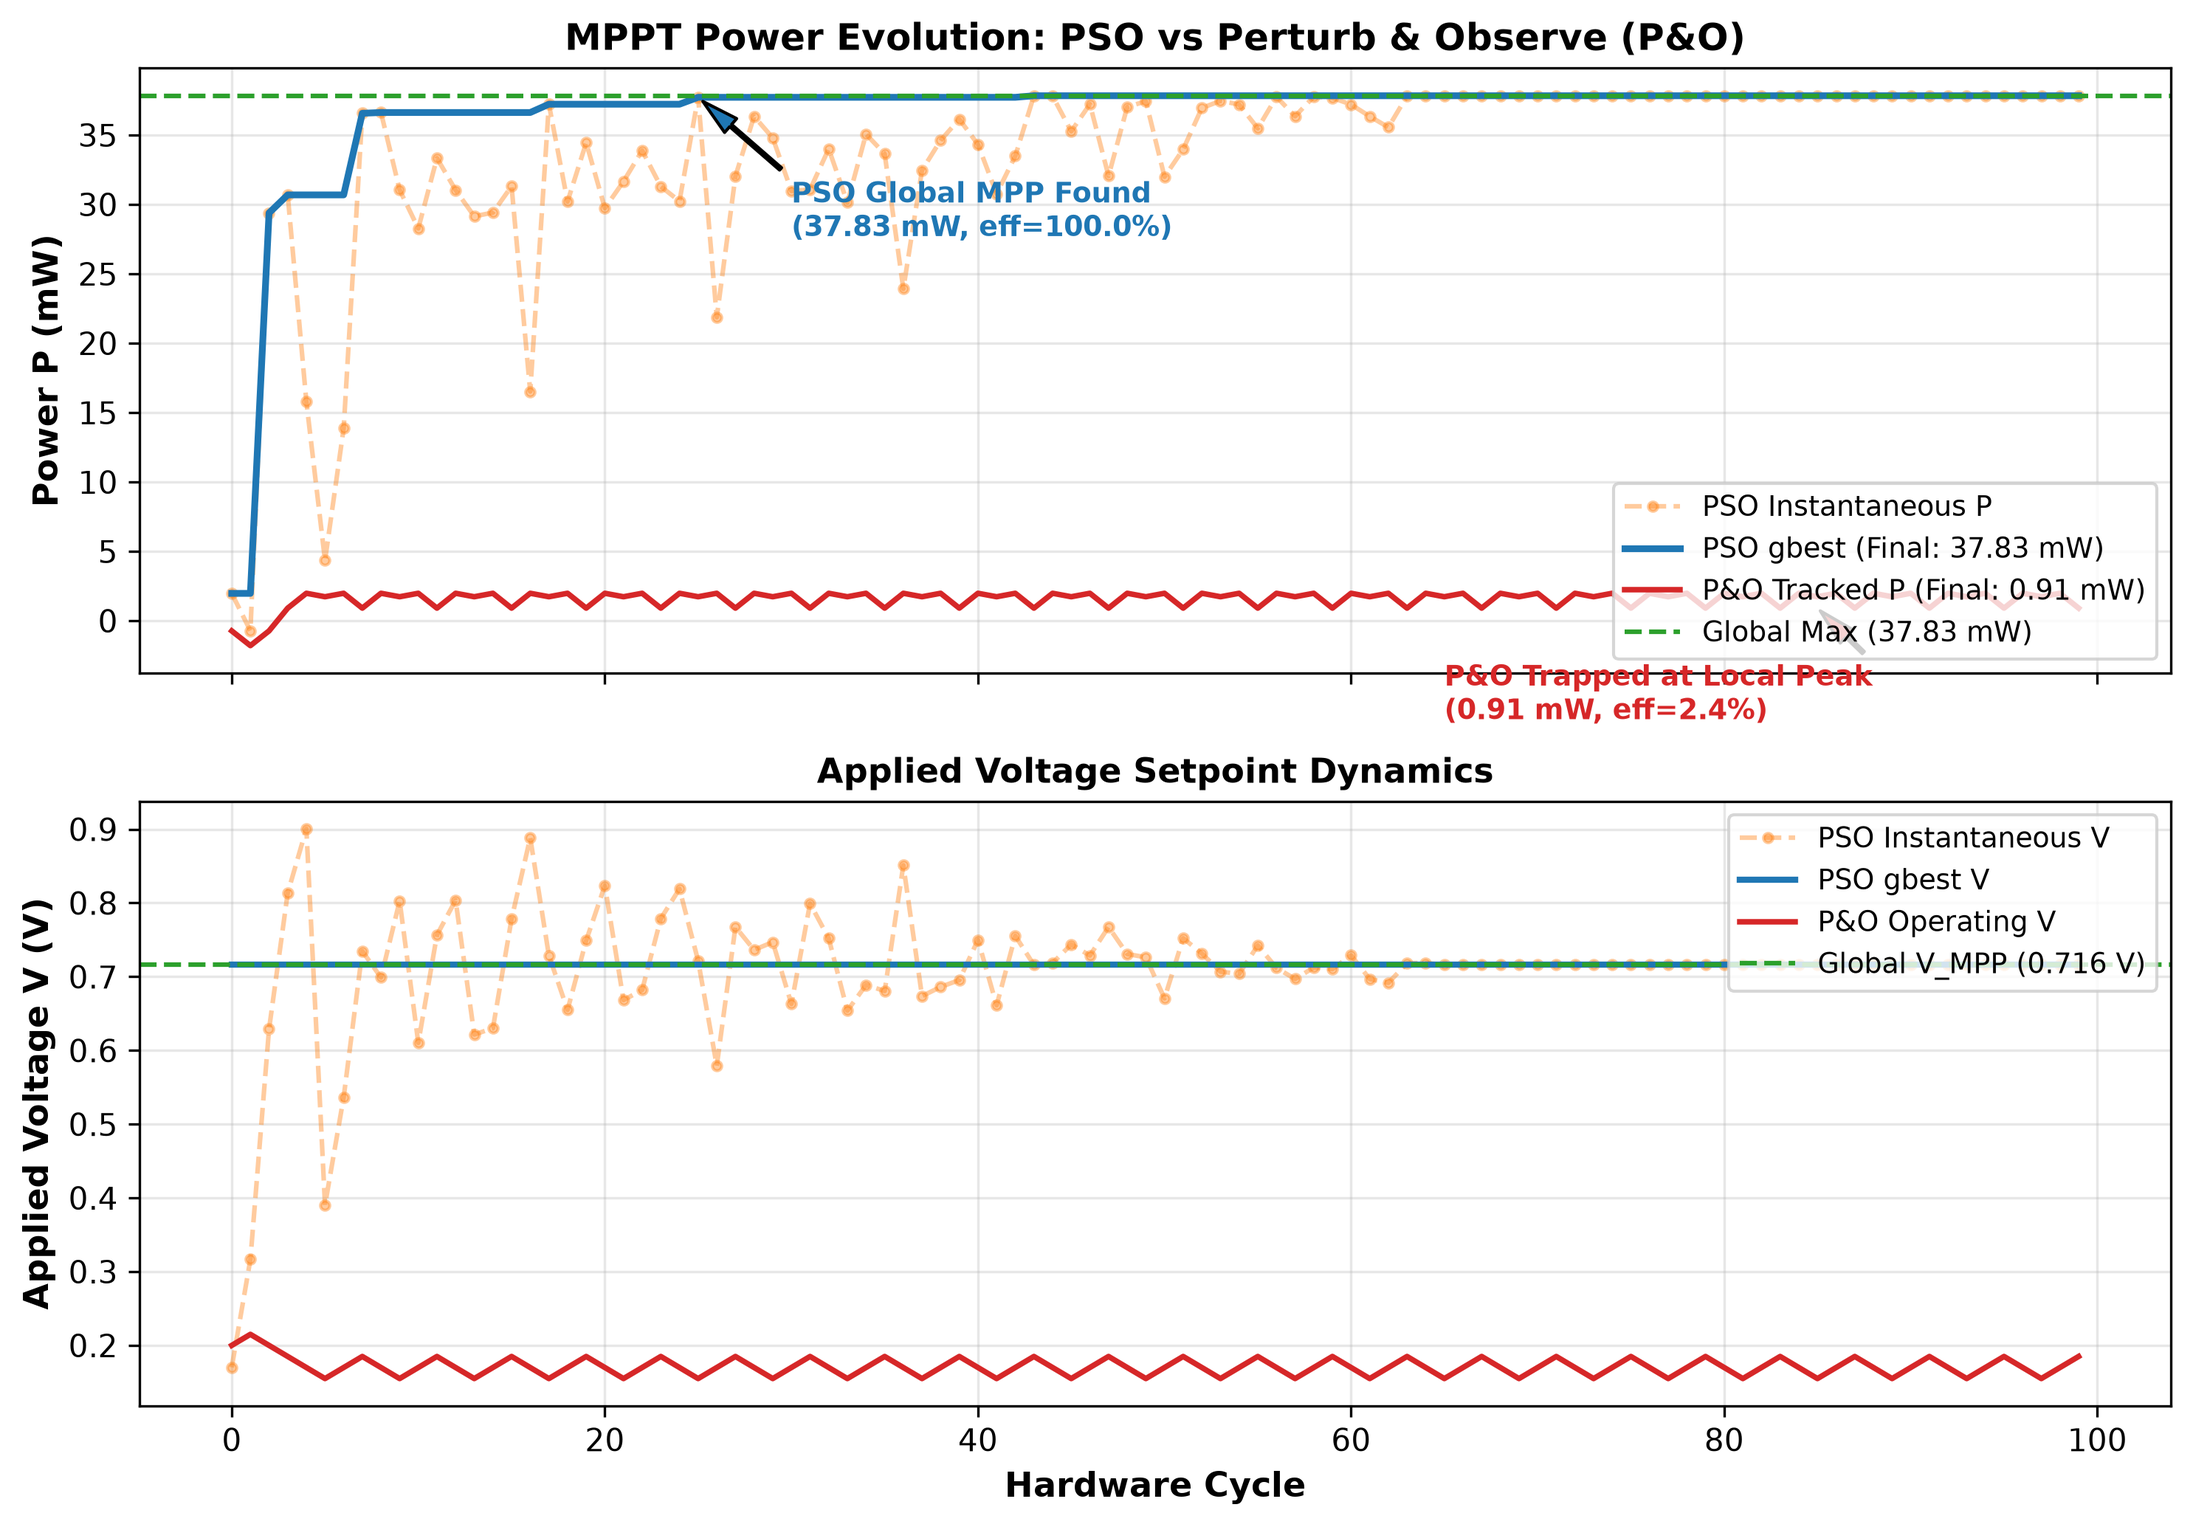
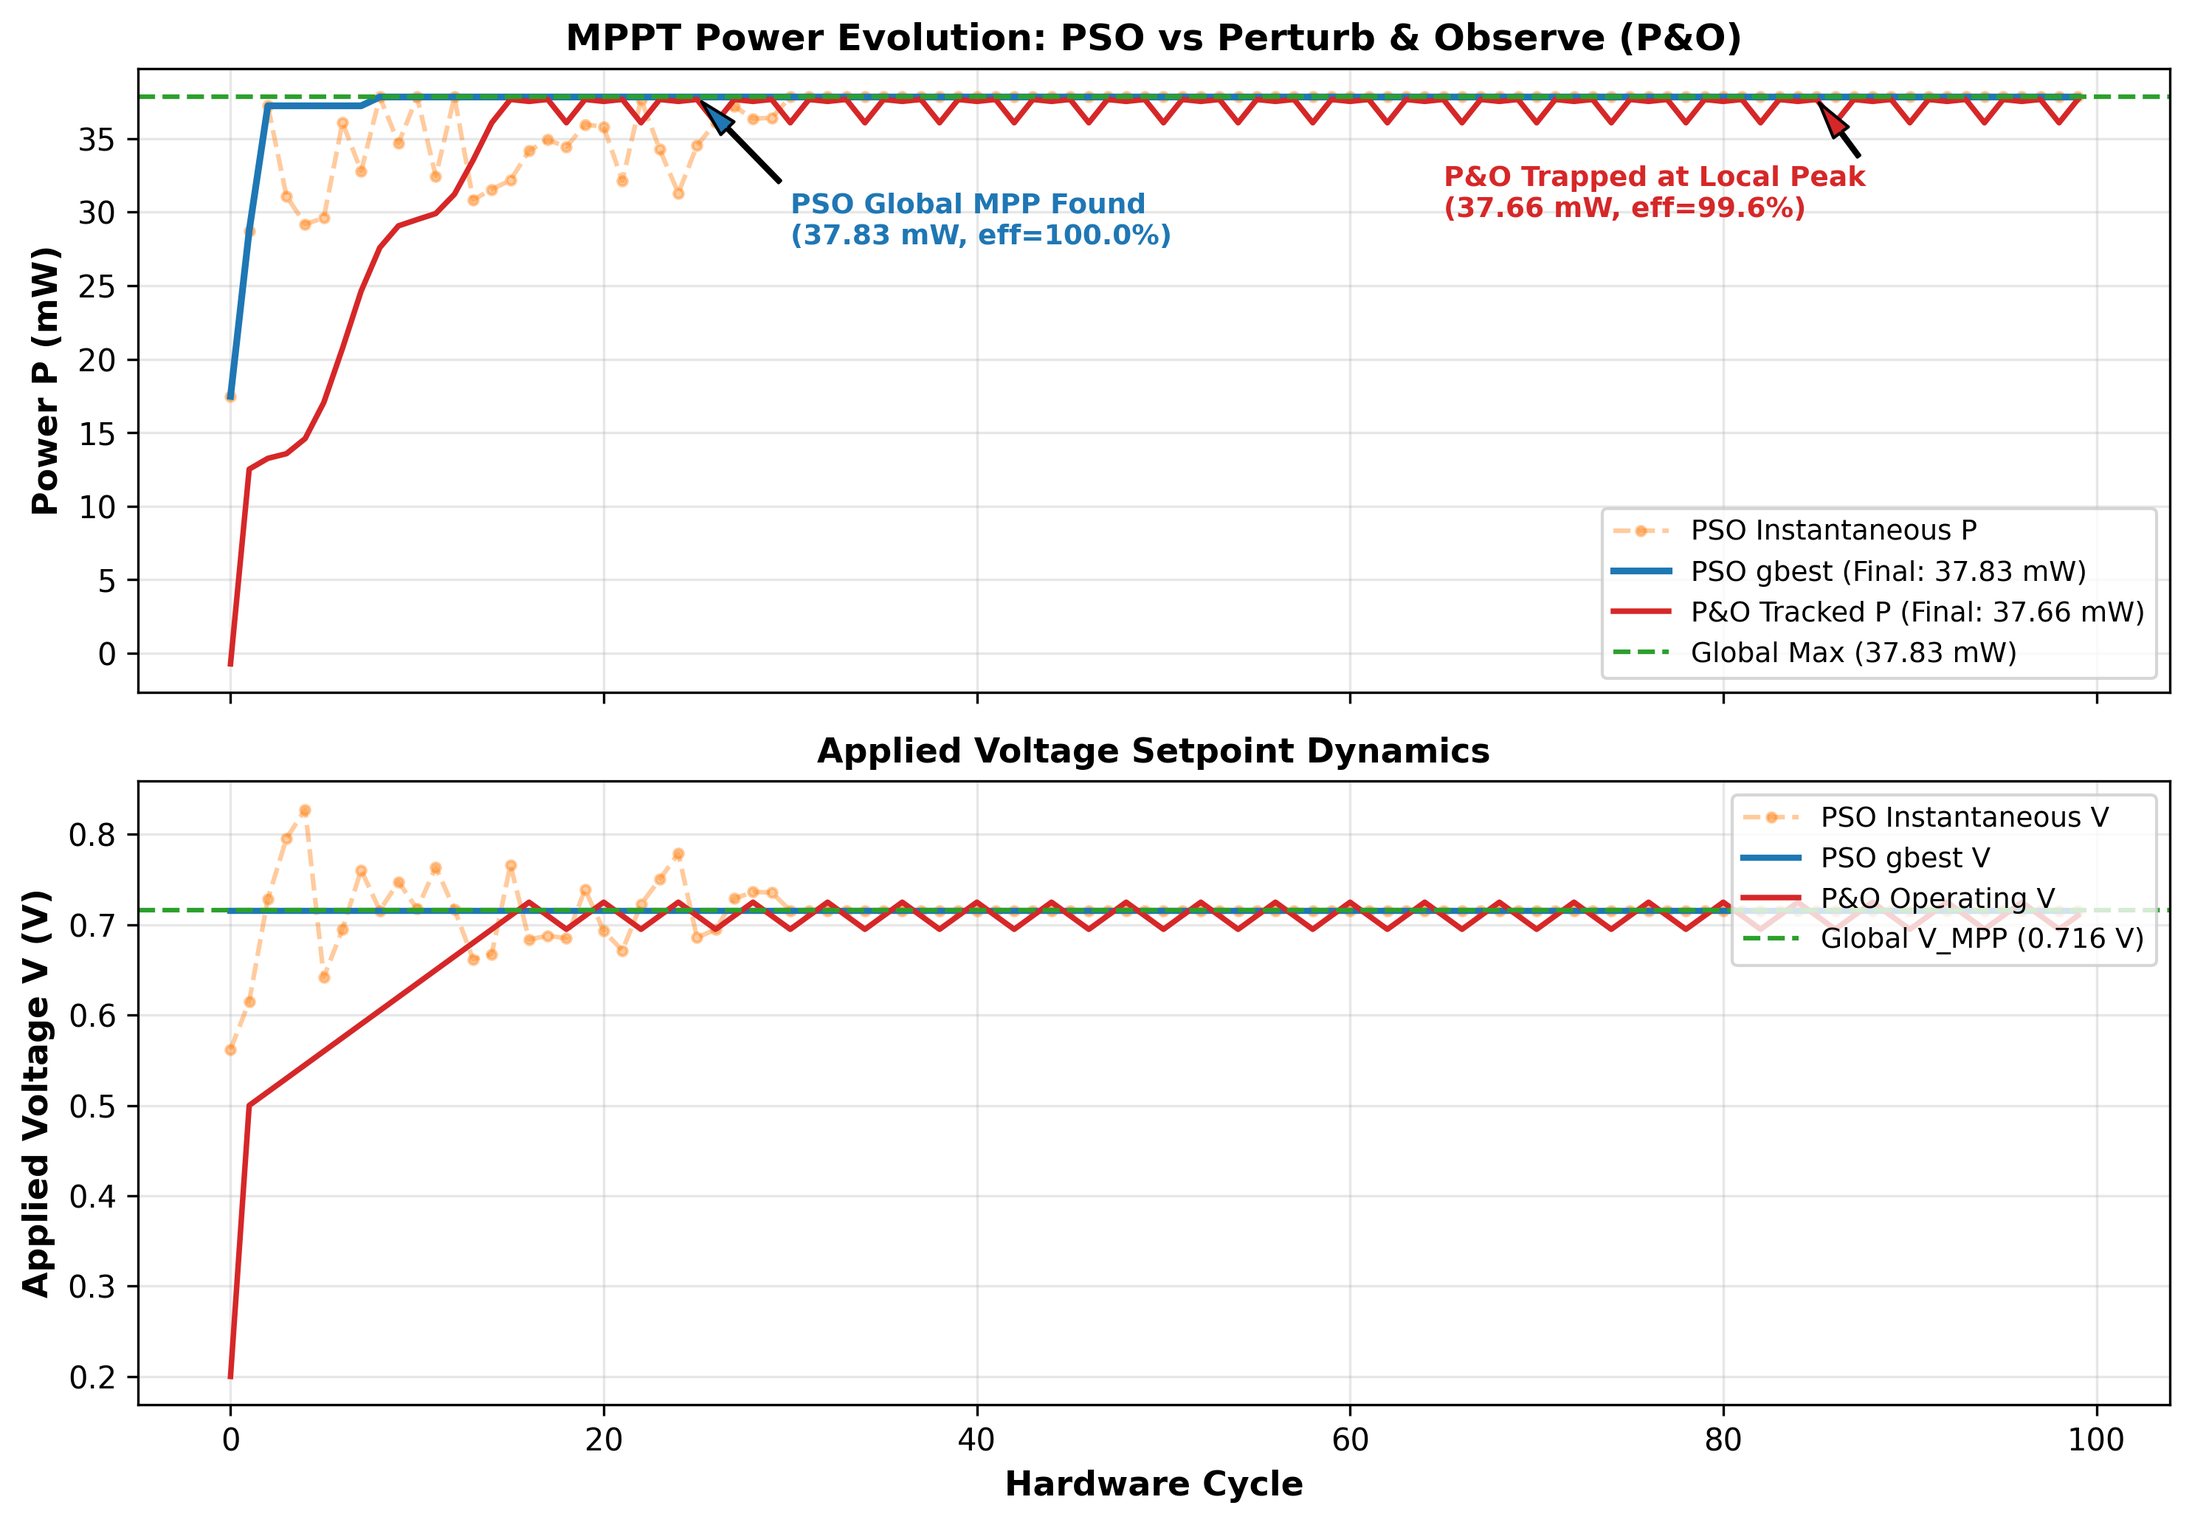
INC sim

diff --git a/pso_sim.py b/pso_sim.py
@@ -168,44 +168,128 @@ class MPPT_PSO:
 
 
 class MPPT_PO:
-    """ Standard Perturb and Observe (P&O) MPPT algorithm. """
-    def __init__(self, v_start: float = 0.20, v_step: float = 0.015, v_min: float = 0.0, v_max: float = 1.1):
+    """ Modified Perturb and Observe (P&O) MPPT algorithm. """
+    def __init__(self, v_start: float = 0.20, v_step: float = 0.01, v_min: float = 0.0, v_max: float = 1.1):
         self.v_now = v_start
-        self.v_step = v_step
+        self.v_large_step = v_step
+        self.v_minor_step = v_step / 2
         self.v_min = v_min
         self.v_max = v_max
         self.direction = 1
         self.p_prev = 0.0
         self.initialized = False
+        self.is_exploring = True
+        self.v_step = self.v_large_step
 
     def step(self, avg_p: float) -> float:
         if not self.initialized:
             self.p_prev = avg_p
+            self.v_step = self.v_large_step
             self.initialized = True
         else:
             dP = avg_p - self.p_prev
             if dP < 0:
                 self.direction *= -1
+                self.is_exploring = True
+                self.v_step = self.v_large_step
             self.p_prev = avg_p
 
         self.v_now = np.clip(self.v_now + self.v_step * self.direction, self.v_min, self.v_max)
         return float(self.v_now)
 
 
-def pv_sim_curve(v):
-    """ Multi-modal PV curve -- partial shading with several local maxima.
-
-    Uses a Rastrigin-like landscape scaled to the [0, 1.1] V domain so
-    there are shallow local wells and a broad global peak.
+class MPPT_INC:
+    """ Incremental Conductance (INC) MPPT algorithm.
+    Converts power from mW to W so current I is in Amperes and inc_cond (dI/dV + I/V)
+    is in Siemens. Locks voltage setpoint (direction=0) once |inc_cond| < epsilon, 
+    eliminating steady-state oscillation around MPP.
     """
-    A = 2.0
-    p_osc = A * (v / 1.1) ** 2 - A * np.cos(2.0 * np.pi * 10.0 * v / 1.1)
-    p_peak = 35.0 * np.exp(-0.5 * ((v - 0.72) / 0.14) ** 2)
-    return p_osc + p_peak
+    def __init__(
+        self,
+        v_start: float = 0.52,
+        v_step: float = 0.008,
+        v_min: float = 0.5,
+        v_max: float = 0.9,
+        It: float = 1e-4,
+        epsilon: float = 0.015
+    ):
+        self.v_now = float(v_start)
+        self.v_prev = float(v_start)
+        self.i_now = 0.0
+        self.i_prev = 0.0
+        self.v_step = v_step
+        self.v_min = v_min
+        self.v_max = v_max
+        self.It = It
+        self.epsilon = epsilon
+        self.direction = 1
+        self.initialized = False
+        self.locked = False
+
+    def step(self, avg_p: float) -> float:
+        # Convert avg_p (mW) to Watts: P_W = avg_p * 1e-3
+        p_w = float(avg_p) * 1e-3
+        self.i_now = p_w / max(self.v_now, 1e-4)
+
+        if not self.initialized:
+            self.i_prev = self.i_now
+            self.v_prev = self.v_now
+            self.initialized = True
+            self.v_now = np.clip(self.v_now + self.direction * self.v_step, self.v_min, self.v_max)
+            return float(self.v_now)
+
+        dV = self.v_now - self.v_prev
+        dI = self.i_now - self.i_prev
+
+        if self.locked:
+            # If environmental change occurs (delta I > It)
+            if abs(dI) > self.It:
+                self.locked = False
+            else:
+                self.v_prev = self.v_now
+                self.i_prev = self.i_now
+                return float(self.v_now)
+
+        if abs(dV) < 1e-6:
+            if abs(dI) > self.It:
+                self.direction = 1 if dI > 0 else -1
+            else:
+                self.direction = 0
+                self.locked = True
+        else:
+            inc_cond = (dI / dV) + (self.i_now / self.v_now)
+            if abs(inc_cond) < self.epsilon:
+                self.direction = 0
+                self.locked = True
+            elif inc_cond > 0:
+                self.direction = 1
+            else:
+                self.direction = -1
+
+        self.v_prev = self.v_now
+        self.i_prev = self.i_now
+
+        self.v_now = np.clip(self.v_now + self.direction * self.v_step, self.v_min, self.v_max)
+        return float(self.v_now)
+
+
+def pv_sim_curve(v):
+    """ Multi-modal PV curve with local maxima and minima within [0.5, 0.9] V range.
+    Simulates partial shading with multiple local MPP peaks and one global peak.
+    """
+    # Global peak centered at V = 0.74 V
+    p_global = 35.0 * np.exp(-0.5 * ((v - 0.74) / 0.08) ** 2)
+    # Local shading peak 1 near 0.57 V
+    p_local1 = 18.5 * np.exp(-0.5 * ((v - 0.57) / 0.035) ** 2)
+    # Local shading peak 2 near 0.86 V
+    p_local2 = 14.0 * np.exp(-0.5 * ((v - 0.86) / 0.03) ** 2)
+
+    p = p_global + p_local1 + p_local2
+    return np.maximum(p, 0.0)
 
 
 def main():
-    v_min, v_max = 0.0, 1.1
+    v_min, v_max = 0.5, 0.9
     v = np.linspace(v_min, v_max, 3000)
     p = pv_sim_curve(v)
 
@@ -261,7 +345,7 @@ def main():
     # -------------------------------------------------------------------------
     # 2) SIMULATE PERTURB & OBSERVE (P&O) MPPT
     # -------------------------------------------------------------------------
-    po = MPPT_PO(v_start=0.20, v_step=0.015, v_min=v_min, v_max=v_max)
+    po = MPPT_PO(v_start=0.52, v_step=0.008, v_min=v_min, v_max=v_max)
     po_v_inst = []
     po_p_inst = []
     v_setpoint_po = po.v_now
@@ -272,28 +356,44 @@ def main():
         po_p_inst.append(p_meas)
         v_setpoint_po = po.step(p_meas)
 
+    # -------------------------------------------------------------------------
+    # 3) SIMULATE INCREMENTAL CONDUCTANCE (INC) MPPT
+    # -------------------------------------------------------------------------
+    inc = MPPT_INC(v_start=0.52, v_step=0.008, v_min=v_min, v_max=v_max, epsilon=0.15)
+    inc_v_inst = []
+    inc_p_inst = []
+    v_setpoint_inc = inc.v_now
+
+    for cycle in range(total_hardware_cycles):
+        p_meas = float(pv_sim_curve(v_setpoint_inc))
+        inc_v_inst.append(v_setpoint_inc)
+        inc_p_inst.append(p_meas)
+        v_setpoint_inc = inc.step(p_meas)
+
     # Calculate efficiencies
     eff_pso = (pso_p_gbest[-1] / p_global) * 100.0
     eff_po = (po_p_inst[-1] / p_global) * 100.0
+    eff_inc = (inc_p_inst[-1] / p_global) * 100.0
 
-    print("==========================================================")
-    print("               MPPT SIMULATION COMPARISON")
-    print("==========================================================")
+    print("==========================================================================")
+    print("                 MPPT SIMULATION COMPARISON (0.5V - 0.9V)")
+    print("==========================================================================")
     print(f"Global Maximum (Theoretical) : V = {v_global:.4f} V | P = {p_global:.3f} mW")
     print(f"PSO Found                    : V = {pso.gbest_pos:.4f} V | P = {pso_p_gbest[-1]:.3f} mW (Efficiency: {eff_pso:.2f}%)")
     print(f"P&O Found                    : V = {po_v_inst[-1]:.4f} V | P = {po_p_inst[-1]:.3f} mW (Efficiency: {eff_po:.2f}%)")
-    print("==========================================================")
+    print(f"INC Found                    : V = {inc_v_inst[-1]:.4f} V | P = {inc_p_inst[-1]:.3f} mW (Efficiency: {eff_inc:.2f}%)")
+    print("==========================================================================")
 
     # -------------------------------------------------------------------------
-    # 3) ANIMATION -- Particle Evolution over the PV Curve
+    # 4) ANIMATION -- Particle Evolution over the PV Curve
     # -------------------------------------------------------------------------
     n_frames = len(gen_snapshots)
     fig_anim, ax_anim = plt.subplots(figsize=(9, 5))
     param_text = f"$N={n_particles}$, $c_1={c1}$, $c_2={c2}$, $w=[{w_min}, {w_max}]$, $v_{{step,max}}={v_step_max_frac}\\times\\Delta V$"
 
     ax_anim.plot(v, p, lw=1.5, color="#3a86ff", zorder=1, label="Fitness curve P(V)")
-    ax_anim.axvline(v_global, color="gray", ls="--", lw=0.8, alpha=0.6, label="Global optimum V_MPP")
-    ax_anim.axhline(p_global, color="green", ls=":", lw=0.8, alpha=0.5, label=f"Global max = {p_global:.3f} mW")
+    ax_anim.axvline(v_global, color="gray", ls="--", lw=0.8, alpha=0.6, label=f"Global V_MPP ({v_global:.3f} V)")
+    ax_anim.axhline(p_global, color="green", ls=":", lw=0.8, alpha=0.5, label=f"Global Max ({p_global:.3f} mW)")
     ax_anim.set_xlabel(f"Applied Voltage V (V)\n{param_text}")
     ax_anim.set_ylabel("Power P (mW)")
     ax_anim.grid(True, alpha=0.3)
@@ -334,56 +434,64 @@ def main():
         ax_anim.set_title(f"PSO Particle Evolution -- Generation {frame}/{n_frames - 1}", fontsize=10, fontweight="bold")
         return [particles_scatter, gbest_marker] + trail_artists
 
-    anim = FuncAnimation(fig_anim, update, frames=n_frames, init_func=init, interval=1200, blit=False, repeat=True)
+    anim = FuncAnimation(fig_anim, update, frames=n_frames, init_func=init, interval=500, blit=False, repeat=False)
     plt.tight_layout()
 
     # -------------------------------------------------------------------------
-    # 4) STATIC PLOT -- Power & Voltage Evolution Comparison (PSO vs P&O)
+    # 5) STATIC PLOT -- Power & Voltage Evolution Comparison (PSO vs P&O vs INC)
     # -------------------------------------------------------------------------
-    fig_conv, (ax_p, ax_v_plot) = plt.subplots(2, 1, figsize=(10, 7), sharex=True)
+    fig_conv, (ax_p, ax_v_plot) = plt.subplots(2, 1, figsize=(10, 7.5), sharex=True)
     cycles = np.arange(total_hardware_cycles)
 
     # --- Top Panel: Power Evolution ---
-    ax_p.plot(cycles, pso_p_inst, "o--", color="#ff7f0e", markersize=3, alpha=0.4, label="PSO Instantaneous P")
-    ax_p.plot(cycles, pso_p_gbest, "-", color="#1f77b4", lw=2.2, label=f"PSO gbest (Final: {pso_p_gbest[-1]:.2f} mW)")
-    ax_p.plot(cycles, po_p_inst, "-", color="#d62728", lw=1.8, label=f"P&O Tracked P (Final: {po_p_inst[-1]:.2f} mW)")
+    ax_p.plot(cycles, pso_p_inst, "o--", color="#ff7f0e", markersize=3, alpha=0.3, label="PSO Instantaneous P")
+    ax_p.plot(cycles, pso_p_gbest, "-", color="#1f77b4", lw=2.2, zorder=4, label=f"PSO gbest (Final: {pso_p_gbest[-1]:.2f} mW)")
+    ax_p.plot(cycles, po_p_inst, "s--", color="#d62728", lw=1.5, markersize=3, zorder=2, label=f"P&O (Oscillates around peak: {po_p_inst[-1]:.2f} mW)")
+    ax_p.plot(cycles, inc_p_inst, "-", color="#8e44ad", lw=2.5, zorder=3, label=f"INC (Locks at peak - Zero Oscillation: {inc_p_inst[-1]:.2f} mW)")
     ax_p.axhline(p_global, color="#2ca02c", ls="--", lw=1.5, label=f"Global Max ({p_global:.2f} mW)")
 
     ax_p.set_ylabel("Power P (mW)", fontsize=11, fontweight="bold")
-    ax_p.set_title("MPPT Power Evolution: PSO vs Perturb & Observe (P&O)", fontsize=12, fontweight="bold")
+    ax_p.set_title("MPPT Power Evolution: PSO vs P&O vs Incremental Conductance (INC)", fontsize=12, fontweight="bold")
     ax_p.grid(True, alpha=0.3)
-    ax_p.legend(loc="lower right", fontsize=9, frameon=True, facecolor="white")
+    ax_p.legend(loc="lower right", fontsize=8.5, frameon=True, facecolor="white")
 
     # Annotations
-    ax_p.annotate(f"P&O Trapped at Local Peak\n({po_p_inst[-1]:.2f} mW, eff={eff_po:.1f}%)",
+    ax_p.annotate(f"P&O Oscillates around Peak\n({po_p_inst[-1]:.2f} mW, eff={eff_po:.1f}%)",
                   xy=(total_hardware_cycles - 15, po_p_inst[-1]),
-                  xytext=(total_hardware_cycles - 35, po_p_inst[-1] - 8),
+                  xytext=(total_hardware_cycles - 45, po_p_inst[-1] - 8),
                   arrowprops=dict(facecolor="#d62728", shrink=0.05, width=1, headwidth=6),
-                  fontsize=9, fontweight="bold", color="#d62728")
+                  fontsize=8.5, fontweight="bold", color="#d62728")
+
+    ax_p.annotate(f"INC Locked Flat (No Oscillation)\n({inc_p_inst[-1]:.2f} mW, eff={eff_inc:.1f}%)",
+                  xy=(total_hardware_cycles - 5, inc_p_inst[-1]),
+                  xytext=(total_hardware_cycles - 45, inc_p_inst[-1] + 5),
+                  arrowprops=dict(facecolor="#8e44ad", shrink=0.05, width=1, headwidth=6),
+                  fontsize=8.5, fontweight="bold", color="#8e44ad")
 
     ax_p.annotate(f"PSO Global MPP Found\n({pso_p_gbest[-1]:.2f} mW, eff={eff_pso:.1f}%)",
                   xy=(25, pso_p_gbest[25]),
-                  xytext=(30, pso_p_gbest[25] - 10),
+                  xytext=(28, pso_p_gbest[25] - 10),
                   arrowprops=dict(facecolor="#1f77b4", shrink=0.05, width=1, headwidth=6),
-                  fontsize=9, fontweight="bold", color="#1f77b4")
+                  fontsize=8.5, fontweight="bold", color="#1f77b4")
 
     # --- Bottom Panel: Voltage Evolution ---
-    ax_v_plot.plot(cycles, pso_v_inst, "o--", color="#ff7f0e", markersize=3, alpha=0.4, label="PSO Instantaneous V")
-    ax_v_plot.plot(cycles, [pso.gbest_pos]*total_hardware_cycles, "-", color="#1f77b4", lw=2.0, label="PSO gbest V")
-    ax_v_plot.plot(cycles, po_v_inst, "-", color="#d62728", lw=1.8, label="P&O Operating V")
+    ax_v_plot.plot(cycles, pso_v_inst, "o--", color="#ff7f0e", markersize=3, alpha=0.3, label="PSO Instantaneous V")
+    ax_v_plot.plot(cycles, [pso.gbest_pos]*total_hardware_cycles, "-", color="#1f77b4", lw=2.0, zorder=4, label="PSO gbest V")
+    ax_v_plot.plot(cycles, po_v_inst, "s--", color="#d62728", lw=1.5, markersize=3, zorder=2, label="P&O Operating V (Oscillating)")
+    ax_v_plot.plot(cycles, inc_v_inst, "-", color="#8e44ad", lw=2.5, zorder=3, label="INC Operating V (Locked Flat)")
     ax_v_plot.axhline(v_global, color="#2ca02c", ls="--", lw=1.5, label=f"Global V_MPP ({v_global:.3f} V)")
 
     ax_v_plot.set_xlabel("Hardware Cycle", fontsize=11, fontweight="bold")
     ax_v_plot.set_ylabel("Applied Voltage V (V)", fontsize=11, fontweight="bold")
-    ax_v_plot.set_title("Applied Voltage Setpoint Dynamics", fontsize=11, fontweight="bold")
+    ax_v_plot.set_title("Applied Voltage Setpoint Dynamics [0.5 V - 0.9 V]", fontsize=11, fontweight="bold")
     ax_v_plot.grid(True, alpha=0.3)
-    ax_v_plot.legend(loc="upper right", fontsize=9, frameon=True, facecolor="white")
+    ax_v_plot.legend(loc="upper right", fontsize=8.5, frameon=True, facecolor="white")
 
     plt.tight_layout()
 
     output_dir = Path("output MPPT")
     output_dir.mkdir(exist_ok=True)
-    save_path = output_dir / "pso_vs_po_comparison.png"
+    save_path = output_dir / "pso_vs_po_vs_inc_comparison.png"
     fig_conv.savefig(save_path, dpi=300, bbox_inches="tight")
     print(f"Saved figure: {save_path}")
 
